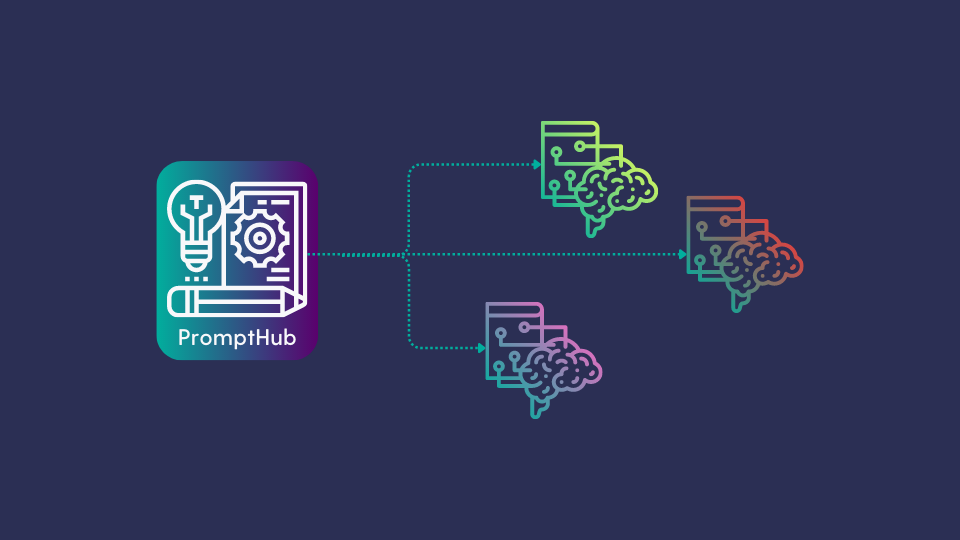
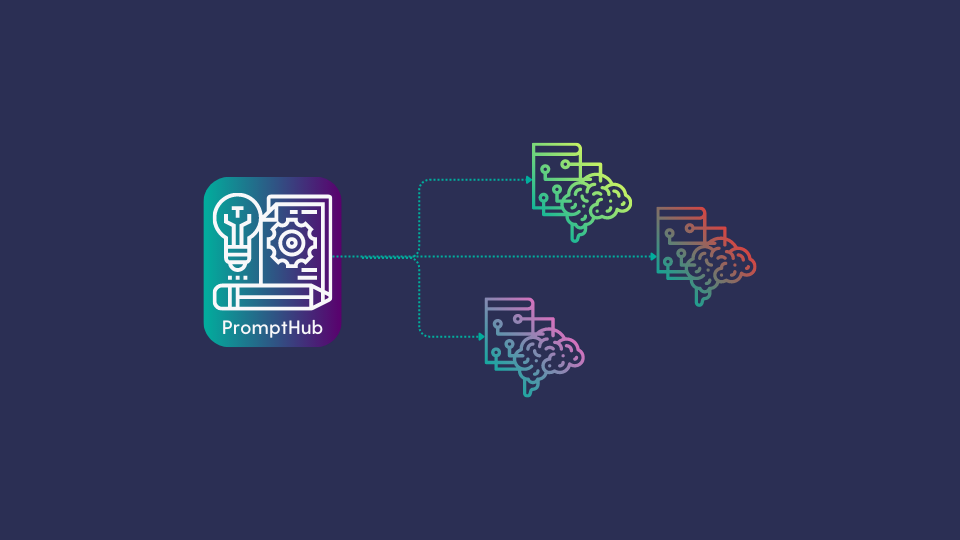
updates (#161)
* updates

* update thumbnail

* Update _index.md

* mini article fix

Changed region(s): [[0.1562, 0.2074, 0.8438, 0.6815], [0.4375, 0.5333, 0.625, 0.7704]]

diff --git a/content/blog/share-and-use-prompt-with-prompthub/index.md b/content/blog/share-and-use-prompt-with-prompthub/index.md
@@ -34,7 +34,7 @@ my_summarizer_prompt = PromptTemplate(prompt="deepset/summarization")
 
 Each prompt on the PromptHub will have instructions on how they are intended to be used, including instructions on what the best `output_parser` for that prompt might be.
 
-For example, the `**deepset/question-answering**` prompt is best used with an `output_parser` as described on the PromptHub.
+For example, the `deepset/question-answering` prompt is best used with an `output_parser` as described on the PromptHub.
 
 ```python
 
@@ -92,7 +92,7 @@ Which can be used in a `PromptTemplate` with the following code:
 ```python
 from haystack.nodes import PromptTemplate
 
-yoda_prompt = PromptTemplate(prompt="./my_prompt.yaml")
+yoda_prompt = PromptTemplate(prompt="./my_yoda_prompt.yaml")
 ```
 
 Just in case you were curious: When asked ‘What is the meaning of life’ with this prompt, GPT-4’s result was “42, the meaning of life is. But truly, in one's own understanding and experience, find the meaning of life, one must. Hmmmm.”

diff --git a/content/blog/_index.md b/content/blog/_index.md
@@ -1,7 +1,7 @@
 ---
 layout: blog
 title: Haystack Blog
-description: The latest news about Haystack, the open source NLP framework.
+description: The latest news about Haystack, the open source NLP framework to use LLMs in production.
 
-subtitle: Articles about Haystack, NLP, open source and development. 
+subtitle: Articles about Haystack, NLP, LLMs and open source tools.
 ---
